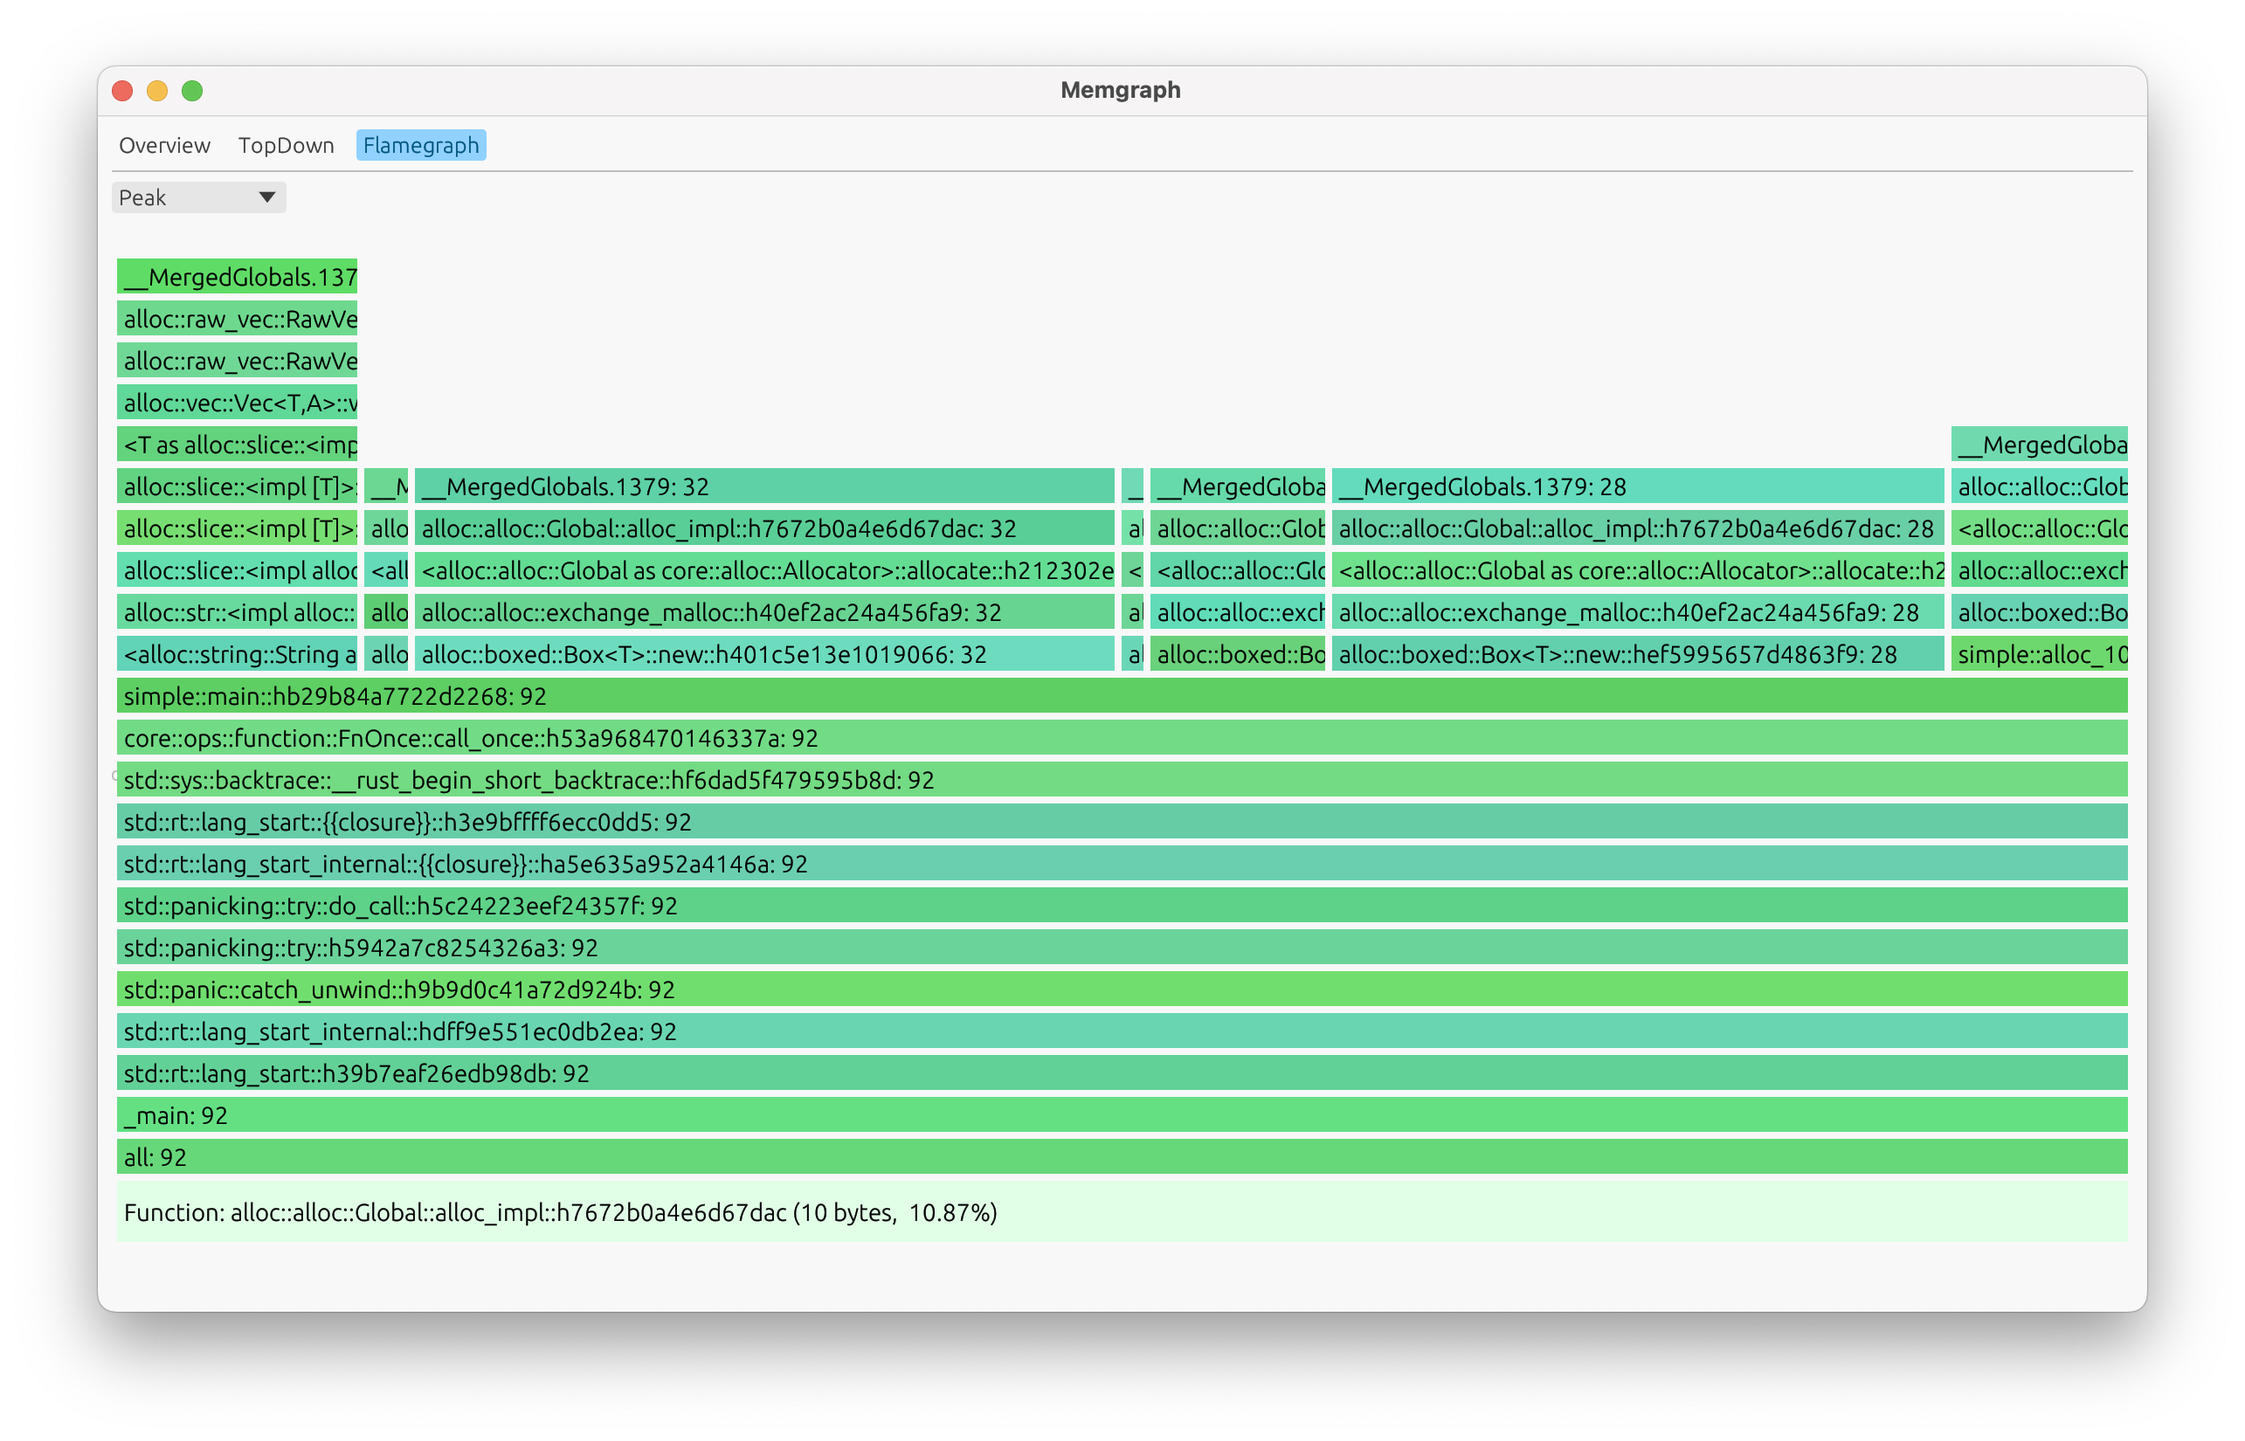
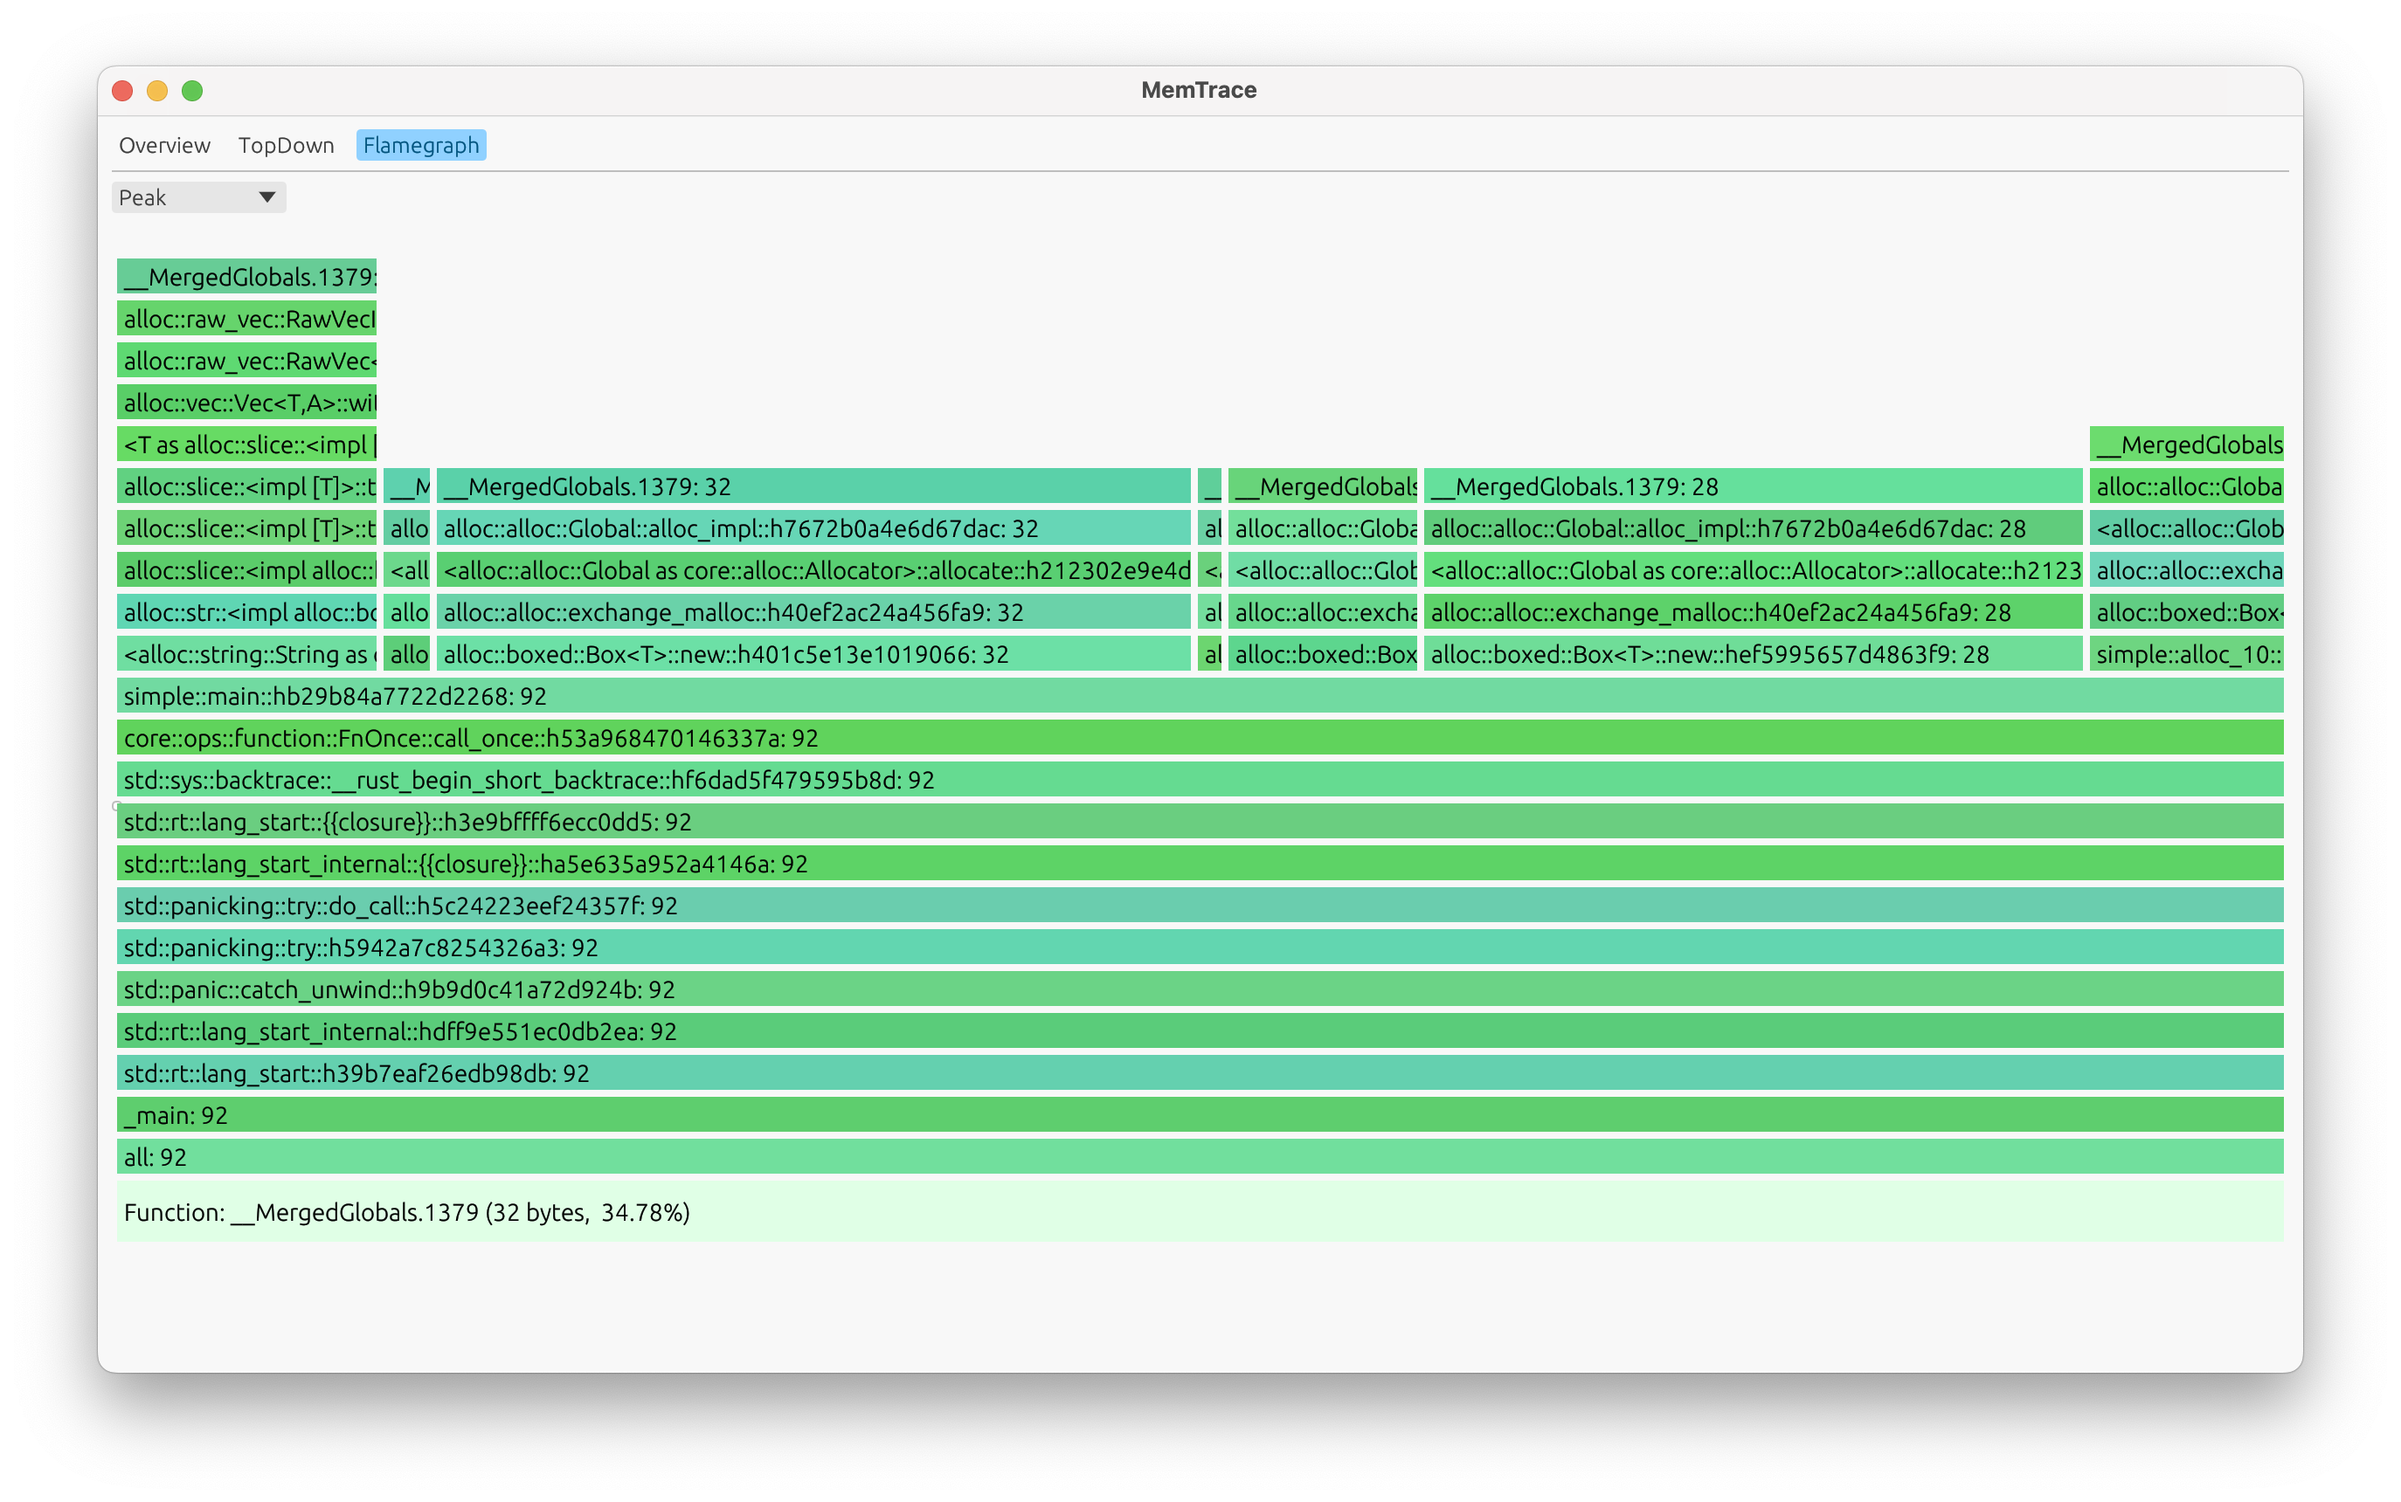
updated images

diff --git a/src/ui/mod.rs b/src/ui/mod.rs
@@ -16,7 +16,7 @@ pub fn run_ui(data: MemInfo) -> eframe::Result {
         ..Default::default()
     };
     eframe::run_native(
-        "Memgraph",
+        "MemTrace",
         options,
         Box::new(|_| Ok(Box::new(MemgraphApp::new(data)))),
     )
